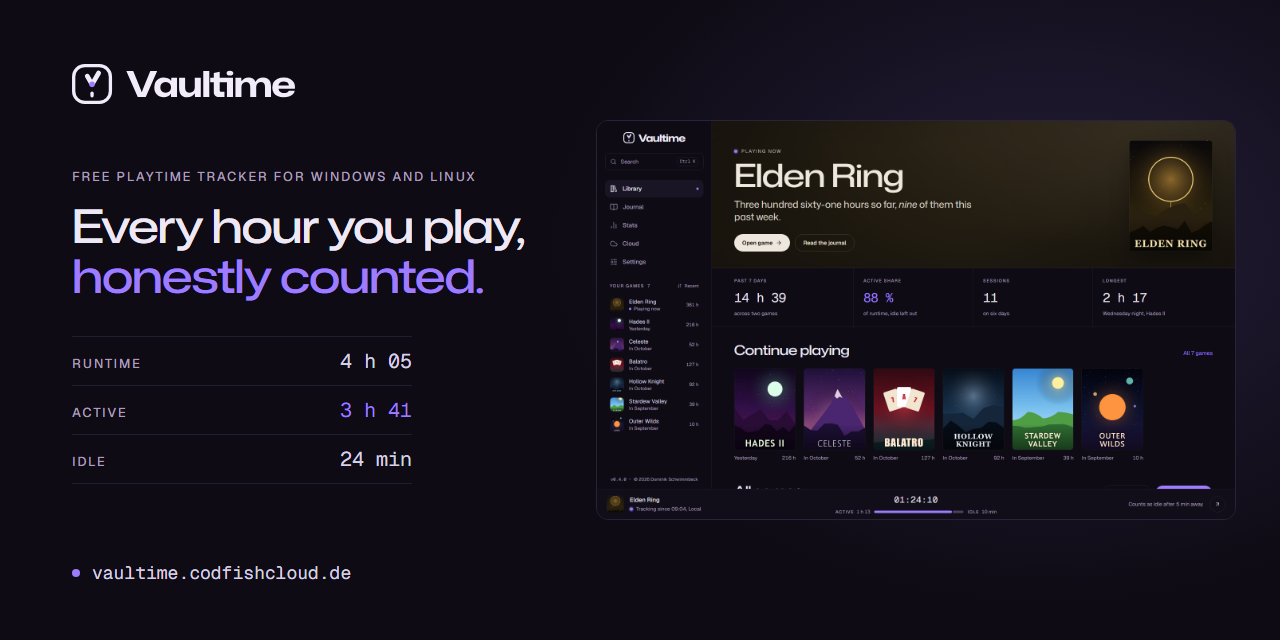
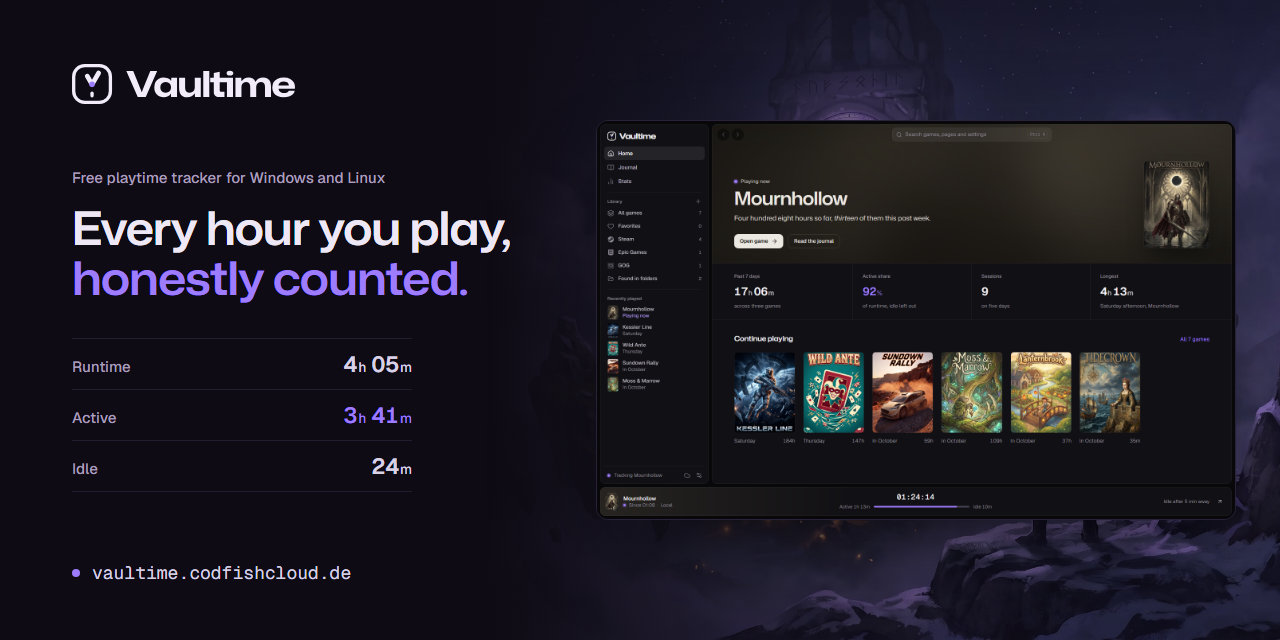
assets: redraw the social preview in the new look
Labels in sentence case, the title at 110 % width, durations as the app writes them, the vista behind and the new Home screenshot.

diff --git a/assets/social-preview.html b/assets/social-preview.html
@@ -23,17 +23,18 @@
       font-family: "Geist", sans-serif;
       color: var(--text);
       background:
-        radial-gradient(720px 520px at 82% 38%, rgb(157 124 255 / 0.16), transparent 70%),
+        linear-gradient(90deg, var(--ink) 38%, rgb(14 11 20 / 0.55) 62%, rgb(14 11 20 / 0.2)),
+        url("../docs/site/art/vista.jpg") 62% 30% / cover,
         var(--ink);
       -webkit-font-smoothing: antialiased;
     }
     .text { position: absolute; left: 72px; top: 64px; width: 470px; }
     .lockup { display: block; height: 40px; width: auto; }
-    .caps { font-size: 13px; font-weight: 500; letter-spacing: 0.14em; text-transform: uppercase; color: var(--faint); }
+    .label-small { font-size: 15px; font-weight: 500; color: var(--faint); }
     .label { margin-top: 64px; }
     h1 {
       margin-top: 16px;
-      font-family: "Mona Sans", sans-serif; font-stretch: 125%; font-weight: 500;
+      font-family: "Mona Sans", sans-serif; font-stretch: 110%; font-weight: 600;
       font-size: 46px; line-height: 1.08; letter-spacing: -0.02em;
     }
     h1 em { font-style: normal; color: var(--violet); }
@@ -42,7 +43,8 @@
       display: flex; justify-content: space-between; align-items: baseline;
       padding: 11px 0; border-bottom: 1px solid var(--rule);
     }
-    .times b { font-family: "Geist Mono", monospace; font-weight: 400; font-size: 20px; color: var(--soft); }
+    .times b { font-weight: 600; font-size: 22px; font-variant-numeric: tabular-nums; color: var(--soft); }
+    .times small { margin-left: 1px; font-size: 0.62em; font-weight: 500; }
     .times .active b { color: var(--violet); }
     .site {
       position: absolute; left: 72px; bottom: 56px;
@@ -55,6 +57,7 @@
     .shot {
       position: absolute; left: 596px; top: 120px; width: 640px; height: 400px;
       border: 1px solid var(--hairline); border-radius: 12px; overflow: hidden;
+      box-shadow: 0 40px 100px -40px rgb(0 0 0 / 0.85);
     }
     .shot img { display: block; width: 100%; height: 100%; }
   </style>
@@ -62,12 +65,12 @@
 <body>
   <div class="text">
     <img class="lockup" src="vaultime-lockup-light.svg" alt="Vaultime" />
-    <div class="caps label">Free playtime tracker for Windows and Linux</div>
+    <div class="label-small label">Free playtime tracker for Windows and Linux</div>
     <h1>Every hour you play, <em>honestly counted.</em></h1>
     <div class="times">
-      <div><span class="caps">Runtime</span><b>4 h 05</b></div>
-      <div class="active"><span class="caps">Active</span><b>3 h 41</b></div>
-      <div><span class="caps">Idle</span><b>24 min</b></div>
+      <div><span class="label-small">Runtime</span><b>4<small>h</small> 05<small>m</small></b></div>
+      <div class="active"><span class="label-small">Active</span><b>3<small>h</small> 41<small>m</small></b></div>
+      <div><span class="label-small">Idle</span><b>24<small>m</small></b></div>
     </div>
   </div>
   <div class="site">vaultime.codfishcloud.de</div>
